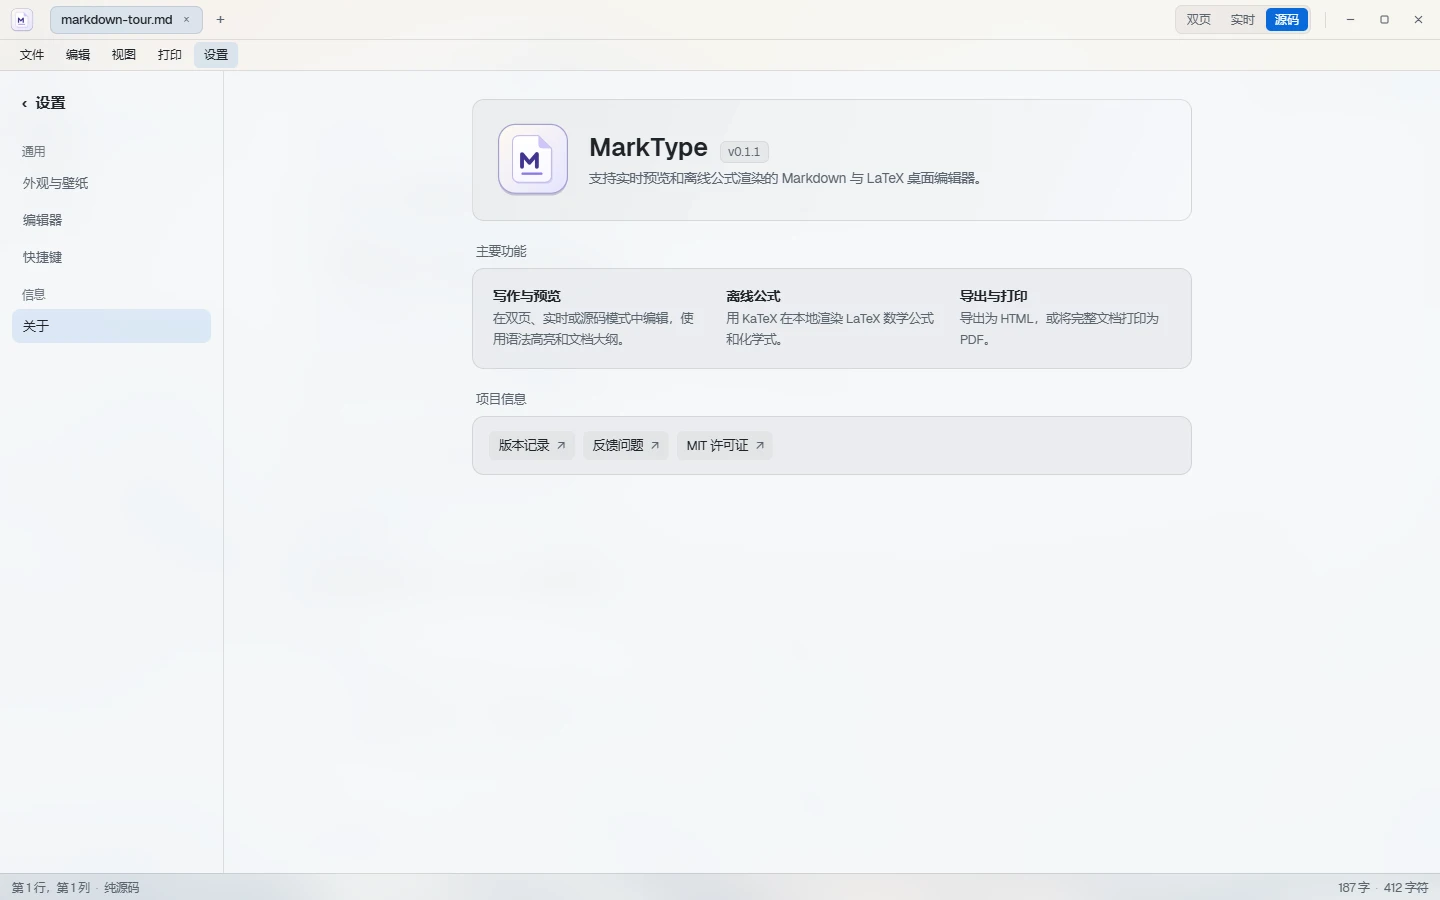
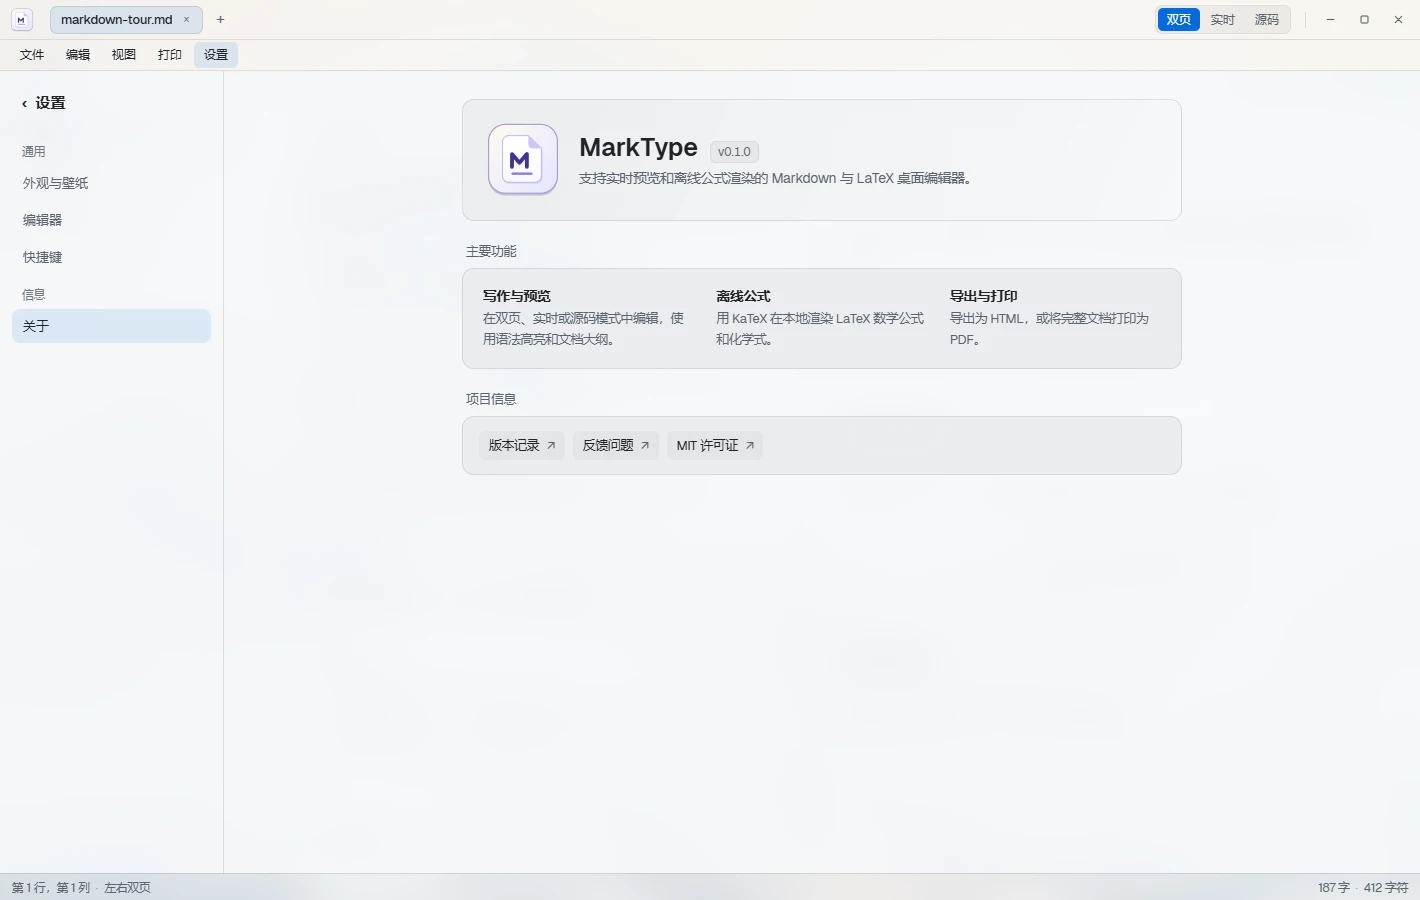
Prepare MarkType v0.1.0 for cross-platform release

diff --git a/CHANGELOG.md b/CHANGELOG.md
@@ -1,28 +1,10 @@
 # Changelog
 
-All notable changes to **MarkType** will be documented in this file.
+## [0.1.0] - 2026-11-24
 
-## [0.1.1] - 2026-11-24
-
-- Introduced a light MarkType icon and a richer About page with the installed version, feature details, and project links.
-- Fixed missing Windows icons in the installed app, desktop and Start Menu shortcuts, and file associations.
-- Improved syntax highlighting, synchronized scrolling, and typography in the editor and preview.
-- Added an in-app save prompt and corrected autosave, search and replace, and full-document printing.
-
-## [0.1.0] - 2026-11-23
-
-### Added
-- **Incremental Rust Markdown + LaTeX Engine**: `ropey::Rope` buffer with O(dirty block) `pulldown-cmark` incremental parsing (`< 0.2 ms` per keystroke on 50,000-line files; `~8 ms` large-file indexing).
-- **Three Seamless View Modes**:
-  - Real-time `<10ms` Split Dual-Pane view (`Ctrl+\`) with bidirectional synchronized scrolling.
-  - Typora-style single-pane Live WYSIWYG mode (`Ctrl+/`) with in-place block editing and live math preview.
-  - Syntax-highlighted Source Code mode (`Ctrl+Shift+/`).
-- **Offline KaTeX + `mhchem` Math & Chemistry**: Inline `$...$`, display `$$...$$`, `\(...\)`, `\[...\]`, matrices, cases, and chemical equations bundled offline.
-- **Full Typora Feature Set**: Outline & File Tree sidebar, multi-tab documents, Focus Mode (`F8`), Typewriter Mode (`F9`), Regex Find & Replace (`Ctrl+F` / `Ctrl+H`), interactive clickable task checkboxes, YAML Front Matter cards, `[TOC]`, Callouts, tables, Rust syntax highlighter, HTML export, and Print/PDF (`Ctrl+P`).
-- **Kite-Inspired Wallpaper & Adaptive Theme System**:
-  - 7 embedded public-domain classical artworks from The Met Open Access + custom PNG/JPEG/WebP import & history.
-  - 5 cached pixel effects (`None`, `Scanlines`, `ASCII`, `Halftone`, `Dither`).
-  - Frosted glass full-window backdrop with WCAG contrast-guarded automatic panel opacity (`0.55–0.92`) and dominant-colour adaptive theme tinting.
-  - 180 ms cubic-bezier wallpaper crossfade & full-bleed sharp Hero Welcome View.
-- **Seamless Frameless Native Window**: Custom integrated titlebar with DWM rounded corners, drop shadow, drag-to-move, double-click maximize, and 8-direction edge resizing.
-- **Multi-Language i18n**: Live switching across 6 languages (`简体中文`, `繁體中文`, `English`, `日本語`, `한국어`, `Français`).
+- Published packages for Windows x64, macOS on Apple Silicon and Intel, and Ubuntu 24.04 x64. GitHub Actions builds and tests each platform and publishes SHA-256 checksums.
+- Added a CodeMirror 6 Live Preview for editing Markdown, rendered equations, and task lists together. The active line shows its Markdown markers. Collapsed equations retain the document's source line numbering.
+- Kept Split and Source editing with syntax highlighting, synchronized scrolling in Split, and windowed loading for large documents.
+- Bundled KaTeX, `mhchem`, and math fonts for offline rendering. The Split preview supports GFM tables, GitHub alerts, front matter, and a table of contents.
+- Improved autosave, find and replace, full-document printing, and the prompt for unsaved changes. Added a light app icon and the About page. Windows shortcuts and file associations use the app icon.
+- Added Chinese and English READMEs with screenshots of the light GitHub theme and Hokusai's *The Great Wave off Kanagawa*. The app includes seven public-domain wallpapers, custom wallpaper import, and six interface languages.

diff --git a/README.en.md b/README.en.md
@@ -55,7 +55,7 @@ Use `⌘` on macOS.
 
 ## Install
 
-The published [v0.1.1](https://github.com/microcrystallization/marktype/releases/tag/v0.1.1) has a Windows x64 installer and portable ZIP. For branches with cross-platform packaging, download the appropriate artifact from a [Desktop packages](https://github.com/microcrystallization/marktype/actions/workflows/release.yml) run.
+Download the Windows, macOS, and Ubuntu packages and their SHA-256 checksums from the [v0.1.0 release](https://github.com/microcrystallization/marktype/releases/tag/v0.1.0).
 
 | Platform | Installation |
 | --- | --- |

diff --git a/README.md b/README.md
@@ -55,7 +55,7 @@ macOS 上使用 `⌘`。
 
 ## 安装
 
-已发布的 [v0.1.1](https://github.com/microcrystallization/marktype/releases/tag/v0.1.1) 提供 Windows x64 安装程序和便携 ZIP。包含跨平台工作流的分支可从 [Desktop packages](https://github.com/microcrystallization/marktype/actions/workflows/release.yml) 下载相应运行的构建产物。
+Windows、macOS 和 Ubuntu 的安装包及 SHA-256 校验文件可从 [v0.1.0 Release](https://github.com/microcrystallization/marktype/releases/tag/v0.1.0) 下载。
 
 | 系统 | 安装方式 |
 | --- | --- |
